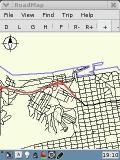
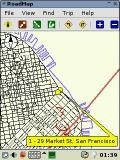
Prepare the RoadMap 1.0.4 release.

diff --git a/roadmap/web/index.html b/roadmap/web/index.html
@@ -12,6 +12,7 @@ href="sitestandard.css" type=text/css rel=stylesheet>
 <BR>
 <HR>
 <a class="normal" href="index.html">Home</a>
+<a class="normal" href="documentation.html">Documentation</a>
 <a class="normal" href="download.html">Download</a>
 <a class="normal" href="screenshots.html">Screenshots</a>
 <a class="normal" href="history.html">History</a>
@@ -48,6 +49,11 @@ href="http://sourceforge.net/projects/roadmap/">Sourceforge</A>.
 <CENTER>
    (c) Copyright Pascal Martin, 2003 (pascal dot martin at iname dot com)
 </CENTER>
+
+<P>The following is a short description of RoadMap. More information is
+available in the <a class="normal" href="documentation.html">documentation</a>
+distributed with RoadMap.
+
 <P>RoadMap is a program that provides a car navigation for Linux and UNIX.
 It displays a map of the streets, tracks the position provided by a
 NMEA-compliant GPS receiver, identifies the street matching this GPS position
@@ -110,29 +116,6 @@ after the data has been released).
 <P>When RoadMap starts, it displays a map of the same area that was displayed
 on the latest session. Clicking on the map screen triggers a "sign" that
 displays the name of the street, road or freeway (if any) that is the closest
-to the mouse hotpoint. On the iPAQ the "calendar" button is used to zoom in,
-the "telephone" button is used to zoom out, the arrow buttons are used to move
-the map and the Compaq ("menu") button is used as "quit".
-
-<P>When entering a street name, the street prefix, suffix and type, if
-provided, must be among the abbreviations listed by the US Census Bureau
-(N for north, E for east, Blvd for boulevard, etc..). In almost all cases
-these conventions follow the usual abbreviations, so there is no need to
-worry here. In addition, any of the fields above is optional: not providing
-all of them only makes the search less selective. If several matches are found,
-RoadMap shows a list of all matching streets and lets the user select the
-appropriate one. 
-
-<P>The exact format of a complete street name as expected by RoadMap is as
-follows: 
-<P>
-<CENTER>[<I>prefix</I> ' '] <I>name</I> [[' ' <I>suffix</I>] ' ' 
-<I>type</I>]</CENTER>
-
-<P>It is also possible to omit the street number, or to search around a given 
-city (prefix the city name with character '?'). These options have the effect
-of making the search even broader. 
-
-<P>More information is available in the README file distributed with RoadMap.
+to the mouse hotpoint.
 </BODY>
 </HTML>

diff --git a/roadmap/web/history.html b/roadmap/web/history.html
@@ -8,6 +8,7 @@ href="sitestandard.css" type=text/css rel=stylesheet>
 <H1>RoadMap: History</H1><BR></CENTER>
 <HR>
 <a class="normal" href="index.html">Home</a>
+<a class="normal" href="documentation.html">Documentation</a>
 <a class="normal" href="download.html">Download</a>
 <a class="normal" href="screenshots.html">Screenshots</a>
 <a class="normal" href="history.html">History</a>
@@ -17,6 +18,29 @@ href="sitestandard.css" type=text/css rel=stylesheet>
 <a class="normal" href="list.html">Mail</a>
 <a class="normal" href="todo.html">Todo</a>
 <HR> <BR>
+<P>Roadmap v1.0.4 (November 22, 2003):
+<UL>
+  <LI>Changed the name of the familiar package to "roadmap" to
+      conform with Familiar's guidelines.
+  <LI>Repaired the voice problem with GPE (waitpid() does not work
+      when RoadMap started from the application manager--might be
+      caused by a process group not set?).
+  <LI>Use some official road signs (and a few hand-made icons) for the
+      toolbar, because the Gnome toolbar setting "Icon Only" has a weird
+      effect when there is no icon (thanks to Mathias Kolehmainen for
+      helping to solve this problem--my archives show the first sighting
+      was actually reported by Darrick Hartman long time ago).
+  <LI>Made the icon above optional with the preference item General.Icons,
+      so that one can avoid using them on small screens (such as the iPAQ).
+      For small screens, either the icons or the label will be shown, not
+      both.
+  <LI>Do not use SIGCHLD by default, since there are the above problems
+      with GPE.
+  <LI>Added a "documentation" package, for those downloading the Familiar
+      package through IpkgFind or a Familiar feed.
+  <LI>Made the documentation available as HTML on the RoadMap web sites
+      (RoadMap README--renamed "Manual"--and the Familiar INSTALL notes).
+</UL>
 <P>Roadmap v1.0.3 (November 2, 2003):
 <UL>
   <LI>Fix loading the sprite file twice if one directory earlier in

diff --git a/roadmap/web/todo.html b/roadmap/web/todo.html
@@ -8,6 +8,7 @@ href="sitestandard.css" type=text/css rel=stylesheet>
 <H1>RoadMap: Todo List</H1><BR></CENTER>
 <HR>
 <a class="normal" href="index.html">Home</a>
+<a class="normal" href="documentation.html">Documentation</a>
 <a class="normal" href="download.html">Download</a>
 <a class="normal" href="screenshots.html">Screenshots</a>
 <a class="normal" href="history.html">History</a>
@@ -37,10 +38,11 @@ with a "[1.1]" sign.)
 <P>
 Here is the detail description of the changes planned so far:
 <UL>
-  <LI><b>Show the waypoints names on the screen<b> (next to the waypoint).
+  <LI><b>Show the waypoints names on the screen</b> (next to the waypoint).
   This would be controlled by an on/off button and key (Z?).
 
-  <LI><b>Show the scales of the map in a way that does not obscure the map.
+  <LI><b>Show the X and Y scales</b> of the map in a way that does not
+  obscure the map.
 
   <LI><b>More natural street naming</b>. RoadMap requires the street names to
   be entered using the US Census Bureau's own conventions (ST for streets, AVE

diff --git a/roadmap/web/screenshots.html b/roadmap/web/screenshots.html
@@ -8,6 +8,7 @@ href="sitestandard.css" type=text/css rel=stylesheet>
 <H1>RoadMap: Screenshots</H1><BR></CENTER>
 <HR>
 <a class="normal" href="index.html">Home</a>
+<a class="normal" href="documentation.html">Documentation</a>
 <a class="normal" href="download.html">Download</a>
 <a class="normal" href="screenshots.html">Screenshots</a>
 <a class="normal" href="history.html">History</a>
@@ -54,7 +55,7 @@ valign="center">
     <TD width="30%">
       <center>
         An example of RoadMap on the HP iPAQ, running familiar
-        v0.7.1, with the GPE desktop.
+        v0.7.2, with the GPE desktop.
       </center>
   </TR>
   </TBODY>
@@ -83,7 +84,7 @@ valign="center">
   <TR vAlign=top>
     <TD width="30%"><center>The RoadMap GPS console.</center></TD>
     <TD width="30%"><center>The RoadMap Preferences dialog.</center></TD>
-    <TD width="30%"><center>The upcoming RoadMap v1.0.4 look, with Icons.</center></TD>
+    <TD width="30%"><center>The RoadMap v1.0.4 look, with Icons.</center></TD>
   </TR>
   </TBODY>
 </TABLE>

diff --git a/roadmap/web/download.html b/roadmap/web/download.html
@@ -8,6 +8,7 @@ href="sitestandard.css" type=text/css rel=stylesheet>
 <H1>RoadMap: Download</H1><BR></CENTER>
 <HR>
 <a class="normal" href="index.html">Home</a>
+<a class="normal" href="documentation.html">Documentation</a>
 <a class="normal" href="download.html">Download</a>
 <a class="normal" href="screenshots.html">Screenshots</a>
 <a class="normal" href="history.html">History</a>
@@ -50,6 +51,15 @@ href="http://sourceforge.net/projects/roadmap/">Sourceforge</A>.
 </CENTER>
 <HR>
 The RoadMap files below are tar files compressed using <b>gzip</b>.
+
+<P>RoadMap v1.0.4:
+<A class=normal href="roadmap/roadmap_1_0_4_src.tar.gz">Sources only</A>,
+<A class=normal 
+   href="roadmap/roadmap_1_0_4_i686.tar.gz">Linux/i686 binaries</A>,
+<A class=normal 
+   href="roadmap/roadmap_1_0_4_armv4l.tar.gz">Linux/ARM binaries</A>,
+<A class=normal 
+   href="roadmap/roadmap_1_0_4_doc.tar.gz">Documentation</A>.
 
 <P>RoadMap v1.0.3:
 <A class=normal href="roadmap/roadmap_1_0_3_src.tar.gz">Sources only</A>,

diff --git a/roadmap/web/bugs.html b/roadmap/web/bugs.html
@@ -8,6 +8,7 @@ href="sitestandard.css" type=text/css rel=stylesheet>
 <H1>RoadMap: Bugs</H1><BR></CENTER>
 <HR>
 <a class="normal" href="index.html">Home</a>
+<a class="normal" href="documentation.html">Documentation</a>
 <a class="normal" href="download.html">Download</a>
 <a class="normal" href="screenshots.html">Screenshots</a>
 <a class="normal" href="history.html">History</a>
@@ -38,8 +39,6 @@ due to a handful of bugs. Here are the details:
 </UL>
 <P>RoadMap known bugs: 
 <UL>
-  <LI>RoadMap 1.0.3 on Familiar/Linux 0.7.1: the generation of voice
-  works only once. RoadMap stays silent after the first message.
   <LI>It seems that RoadMap has some memory leaks problems: playing the
   same trip log over and over causes the size of the RoadMap process to
   grow. This might have been fixed since then, but one never know..

diff --git a/roadmap/web/hardware.html b/roadmap/web/hardware.html
@@ -8,6 +8,7 @@ href="sitestandard.css" type=text/css rel=stylesheet>
 <H1>RoadMap: Hardware Compatibility List</H1><BR></CENTER>
 <HR>
 <a class="normal" href="index.html">Home</a>
+<a class="normal" href="documentation.html">Documentation</a>
 <a class="normal" href="download.html">Download</a>
 <a class="normal" href="screenshots.html">Screenshots</a>
 <a class="normal" href="history.html">History</a>

diff --git a/roadmap/web/maps.html b/roadmap/web/maps.html
@@ -8,6 +8,7 @@ href="sitestandard.css" type=text/css rel=stylesheet>
 <H1>RoadMap: US County Maps</H1><BR></CENTER>
 <HR>
 <a class="normal" href="index.html">Home</a>
+<a class="normal" href="documentation.html">Documentation</a>
 <a class="normal" href="download.html">Download</a>
 <a class="normal" href="screenshots.html">Screenshots</a>
 <a class="normal" href="history.html">History</a>

diff --git a/roadmap/web/list.html b/roadmap/web/list.html
@@ -8,6 +8,7 @@ href="sitestandard.css" type=text/css rel=stylesheet>
 <H1>RoadMap: Mailing List</H1><BR></CENTER>
 <HR>
 <a class="normal" href="index.html">Home</a>
+<a class="normal" href="documentation.html">Documentation</a>
 <a class="normal" href="download.html">Download</a>
 <a class="normal" href="screenshots.html">Screenshots</a>
 <a class="normal" href="history.html">History</a>
